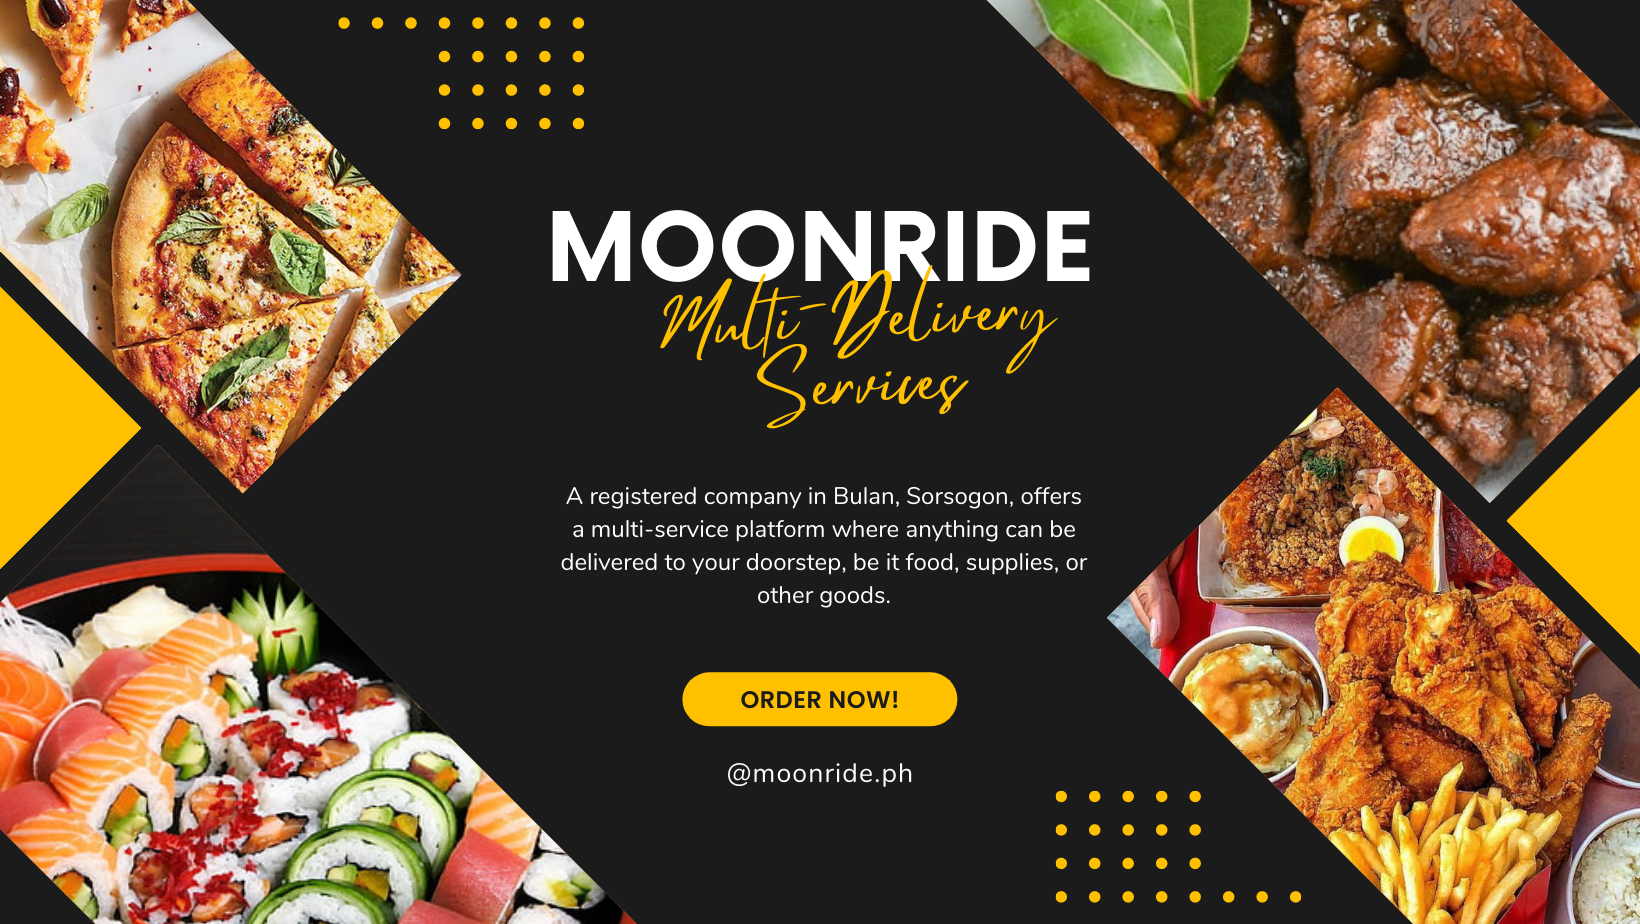
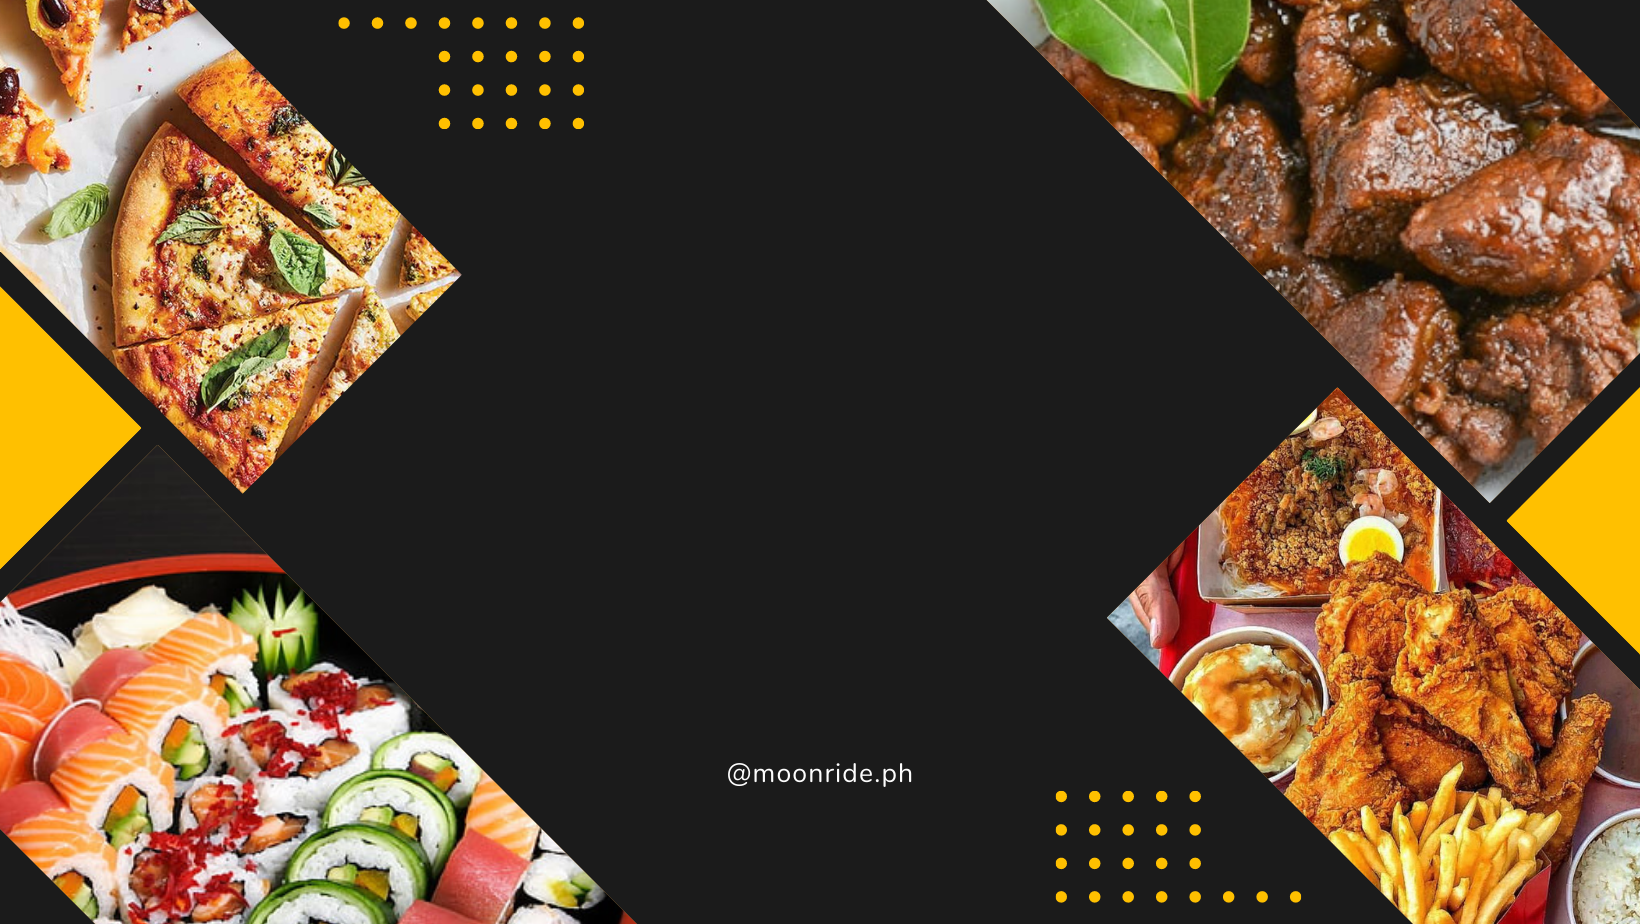
Added home css

Changed region(s): [[0.311, 0.2121, 0.6841, 0.4545], [0.3421, 0.5152, 0.653, 0.6667], [0.4043, 0.7273, 0.5909, 0.7879]]

diff --git a/public/css/home.css b/public/css/home.css
@@ -1,0 +1,60 @@
+.links {
+    position: fixed;
+    z-index: 9999;
+    top: 50%;
+  }
+  .link-icon {
+    display: flex;
+    align-items: center;
+  }
+  .fbtxt, .instxt {
+    background-color: #000000;
+    color: #ffffff;
+    border-radius: 10px;
+    padding: 3px;
+  }
+  .instxt{
+    margin-left: 7px;
+  }
+  .mobile {
+      display: none;
+  }
+  @media only screen and (max-width: 768px) {
+  /* For mobile phones: */
+      .desktop, .links {
+          display: none;
+      }
+      
+      .mobile {
+          display: block;
+      }
+      .custom-radius {
+          border-radius: 20px;
+      }
+  }
+
+  .info-content {
+    display:flex; 
+    justify-content:center; 
+    align-items: center; 
+    flex-direction:column;
+  }
+
+  .info-center{
+    margin: 10px auto; 
+    text-align:center; 
+    width:500px;
+  }
+  .mr-font {
+    font-size:60pt;
+    margin-bottom: -10px;
+  }
+  .mds-font{
+    color:#ffc000;
+    font-family: Kunstler Script;
+    line-height: 60px;
+    font-size:60pt;
+  }
+  .a-line p {
+    font-size: 12pt;
+  }

diff --git a/resources/views/welcome.blade.php b/resources/views/welcome.blade.php
@@ -9,44 +9,10 @@
         <!-- Fonts -->
         <link href="https://fonts.bunny.net/css2?family=Nunito:wght@400;600;700&display=swap" rel="stylesheet">
         <link rel="stylesheet" href="{{asset('/font-awesome-4.7.0/css/font-awesome.min.css')}}">
+        <link rel="stylesheet" href="{{asset('/css/home.css')}}">
         <!-- Styles -->
         <style>
             /*! normalize.css v8.0.1 | MIT License | github.com/necolas/normalize.css */html{line-height:1.15;-webkit-text-size-adjust:100%}body{margin:0}a{background-color:transparent}[hidden]{display:none}html{font-family:system-ui,-apple-system,BlinkMacSystemFont,Segoe UI,Roboto,Helvetica Neue,Arial,Noto Sans,sans-serif,Apple Color Emoji,Segoe UI Emoji,Segoe UI Symbol,Noto Color Emoji;line-height:1.5}*,:after,:before{box-sizing:border-box;border:0 solid #e2e8f0}a{color:inherit;text-decoration:inherit}svg,video{display:block;vertical-align:middle}video{max-width:100%;height:auto}.bg-white{--tw-bg-opacity: 1;background-color:rgb(255 255 255 / var(--tw-bg-opacity))}.bg-gray-100{--tw-bg-opacity: 1;background-color:rgb(243 244 246 / var(--tw-bg-opacity))}.border-gray-200{--tw-border-opacity: 1;border-color:rgb(229 231 235 / var(--tw-border-opacity))}.border-t{border-top-width:1px}.flex{display:flex}.grid{display:grid}.hidden{display:none}.items-center{align-items:center}.justify-center{justify-content:center}.font-semibold{font-weight:600}.h-5{height:1.25rem}.h-8{height:2rem}.h-16{height:4rem}.text-sm{font-size:.875rem}.text-lg{font-size:1.125rem}.leading-7{line-height:1.75rem}.mx-auto{margin-left:auto;margin-right:auto}.ml-1{margin-left:.25rem}.mt-2{margin-top:.5rem}.mr-2{margin-right:.5rem}.ml-2{margin-left:.5rem}.mt-4{margin-top:1rem}.ml-4{margin-left:1rem}.mt-8{margin-top:2rem}.ml-12{margin-left:3rem}.-mt-px{margin-top:-1px}.max-w-6xl{max-width:72rem}.min-h-screen{min-height:100vh}.overflow-hidden{overflow:hidden}.p-6{padding:1.5rem}.py-4{padding-top:1rem;padding-bottom:1rem}.px-6{padding-left:1.5rem;padding-right:1.5rem}.pt-8{padding-top:2rem}.fixed{position:fixed}.relative{position:relative}.top-0{top:0}.right-0{right:0}.shadow{--tw-shadow: 0 1px 3px 0 rgb(0 0 0 / .1), 0 1px 2px -1px rgb(0 0 0 / .1);--tw-shadow-colored: 0 1px 3px 0 var(--tw-shadow-color), 0 1px 2px -1px var(--tw-shadow-color);box-shadow:var(--tw-ring-offset-shadow, 0 0 #0000),var(--tw-ring-shadow, 0 0 #0000),var(--tw-shadow)}.text-center{text-align:center}.text-gray-200{--tw-text-opacity: 1;color:rgb(229 231 235 / var(--tw-text-opacity))}.text-gray-300{--tw-text-opacity: 1;color:rgb(209 213 219 / var(--tw-text-opacity))}.text-gray-400{--tw-text-opacity: 1;color:rgb(156 163 175 / var(--tw-text-opacity))}.text-gray-500{--tw-text-opacity: 1;color:rgb(107 114 128 / var(--tw-text-opacity))}.text-gray-600{--tw-text-opacity: 1;color:rgb(75 85 99 / var(--tw-text-opacity))}.text-gray-700{--tw-text-opacity: 1;color:rgb(55 65 81 / var(--tw-text-opacity))}.text-gray-900{--tw-text-opacity: 1;color:rgb(17 24 39 / var(--tw-text-opacity))}.underline{text-decoration:underline}.antialiased{-webkit-font-smoothing:antialiased;-moz-osx-font-smoothing:grayscale}.w-5{width:1.25rem}.w-8{width:2rem}.w-auto{width:auto}.grid-cols-1{grid-template-columns:repeat(1,minmax(0,1fr))}@media (min-width:640px){.sm\:rounded-lg{border-radius:.5rem}.sm\:block{display:block}.sm\:items-center{align-items:center}.sm\:justify-start{justify-content:flex-start}.sm\:justify-between{justify-content:space-between}.sm\:h-20{height:5rem}.sm\:ml-0{margin-left:0}.sm\:px-6{padding-left:1.5rem;padding-right:1.5rem}.sm\:pt-0{padding-top:0}.sm\:text-left{text-align:left}.sm\:text-right{text-align:right}}@media (min-width:768px){.md\:border-t-0{border-top-width:0}.md\:border-l{border-left-width:1px}.md\:grid-cols-2{grid-template-columns:repeat(2,minmax(0,1fr))}}@media (min-width:1024px){.lg\:px-8{padding-left:2rem;padding-right:2rem}}@media (prefers-color-scheme:dark){.dark\:bg-gray-800{--tw-bg-opacity: 1;background-color:rgb(31 41 55 / var(--tw-bg-opacity))}.dark\:bg-gray-900{--tw-bg-opacity: 1;background-color:rgb(17 24 39 / var(--tw-bg-opacity))}.dark\:border-gray-700{--tw-border-opacity: 1;border-color:rgb(55 65 81 / var(--tw-border-opacity))}.dark\:text-white{--tw-text-opacity: 1;color:rgb(255 255 255 / var(--tw-text-opacity))}.dark\:text-gray-400{--tw-text-opacity: 1;color:rgb(156 163 175 / var(--tw-text-opacity))}.dark\:text-gray-500{--tw-text-opacity: 1;color:rgb(107 114 128 / var(--tw-text-opacity))}}
-            .links {
-              position: fixed;
-              z-index: 9999;
-              top: 50%;
-            }
-            .link-icon {
-              display: flex;
-              align-items: center;
-            }
-            .fbtxt, .instxt {
-              background-color: #000000;
-              color: #ffffff;
-              border-radius: 10px;
-              padding: 3px;
-            }
-            .instxt{
-              margin-left: 7px;
-            }
-            .mobile {
-                display: none;
-            }
-            @media only screen and (max-width: 768px) {
-            /* For mobile phones: */
-                .desktop, .links {
-                    display: none;
-                }
-                
-                .mobile {
-                    display: block;
-                }
-                .custom-radius {
-                    border-radius: 20px;
-                }
-            }
-            
         </style>
 
         @vite(['resources/sass/app.scss', 'resources/js/app.js'])
@@ -96,22 +62,33 @@
         <main class="desktop">
           <div id="carouselExampleControls" class="carousel slide" data-bs-ride="carousel">
             <div class="carousel-inner">
-              <div class="carousel-item active">
-                <a href="{{route('login')}}">
-                    <img src="{{asset('/image/s1.png')}}" class="d-block w-100" alt="...">
-                </a>
+              <div class="carousel-item active" style="overflow:hidden">
+               <div class="row" style="height:100vh; background-image:url('{{asset('/image/s1.png')}}'); background-size:cover; background-position-y: center; background-position-x:center;">
+                <div class="info-content">
+                  <div class="info-center">
+                    <h1 class="mr-font fw-bold text-white">MOODRIDE</h1>
+                    <h1 class="mds-font">Multi-Delivery Services</h1>
+                    <div class="a-line text-white">
+                      <p>A registered company in Bulan, Sorsogon, offers a multi-service platform where anything can be delivered to your doorstep, be it food, supplies, or other goods.</p>
+                    </div>
+                    <div class="col-6 mx-auto">
+                    <a href="{{route('login')}}" class="w-100 btn btn-lg btn-warning rounded-pill fw-bold mt-3">ORDER NOW!</a>
+                    </div>
+                  </div>
+                </div>
+               </div>
               </div>
-              <div class="carousel-item">
-                <img src="{{asset('/image/s2.jpg')}}" class="d-block w-100" alt="...">
+              <div class="carousel-item" style="overflow:hidden">
+                <div class="row" style="height:100vh; background-image:url('{{asset('/image/s2.jpg')}}'); background-size:cover; background-position-y: center; background-position-x:center;"></div>
               </div>
-              <div class="carousel-item">
-                <img src="{{asset('/image/s3.jpg')}}" class="d-block w-100" alt="...">
+              <div class="carousel-item" style="overflow:hidden">
+                <div class="row" style="height:100vh; background-image:url('{{asset('/image/s3.jpg')}}'); background-size:cover; background-position-y: center; background-position-x:center;">></div>
               </div>
-              <div class="carousel-item">
-                <img src="{{asset('/image/s4.jpg')}}" class="d-block w-100" alt="...">
+              <div class="carousel-item" style="overflow:hidden">
+                <div class="row" style="height:100vh; background-image:url('{{asset('/image/s4.jpg')}}'); background-size:cover; background-position-y: center; background-position-x:center;">></div>
               </div>
-              <div class="carousel-item">
-                <img src="{{asset('/image/s5.jpg')}}" class="d-block w-100" alt="...">
+              <div class="carousel-item" style="overflow:hidden">
+                <div class="row" style="height:100vh; background-image:url('{{asset('/image/s5.jpg')}}'); background-size:cover; background-position-y: center; background-position-x:center;">></div>
               </div>
             </div>
             <button class="carousel-control-prev" type="button" data-bs-target="#carouselExampleControls" data-bs-slide="prev">
@@ -131,7 +108,7 @@
           </div>
           <div class="row">
               <div class="col-6 mx-auto">
-                  <a style="margin-top: -20px;" class="w-100 btn btn-lg btn-warning rounded-pill">ORDER NOW <i class="fa fa-arrow-right" aria-hidden="true"></i></a>
+                  <a style="margin-top: -20px;" href="{{route('login')}}" class="w-100 btn btn-lg btn-warning rounded-pill">ORDER NOW <i class="fa fa-arrow-right" aria-hidden="true"></i></a>
               </div>
 
               <div class="col-8 mx-auto text-center mt-4">
